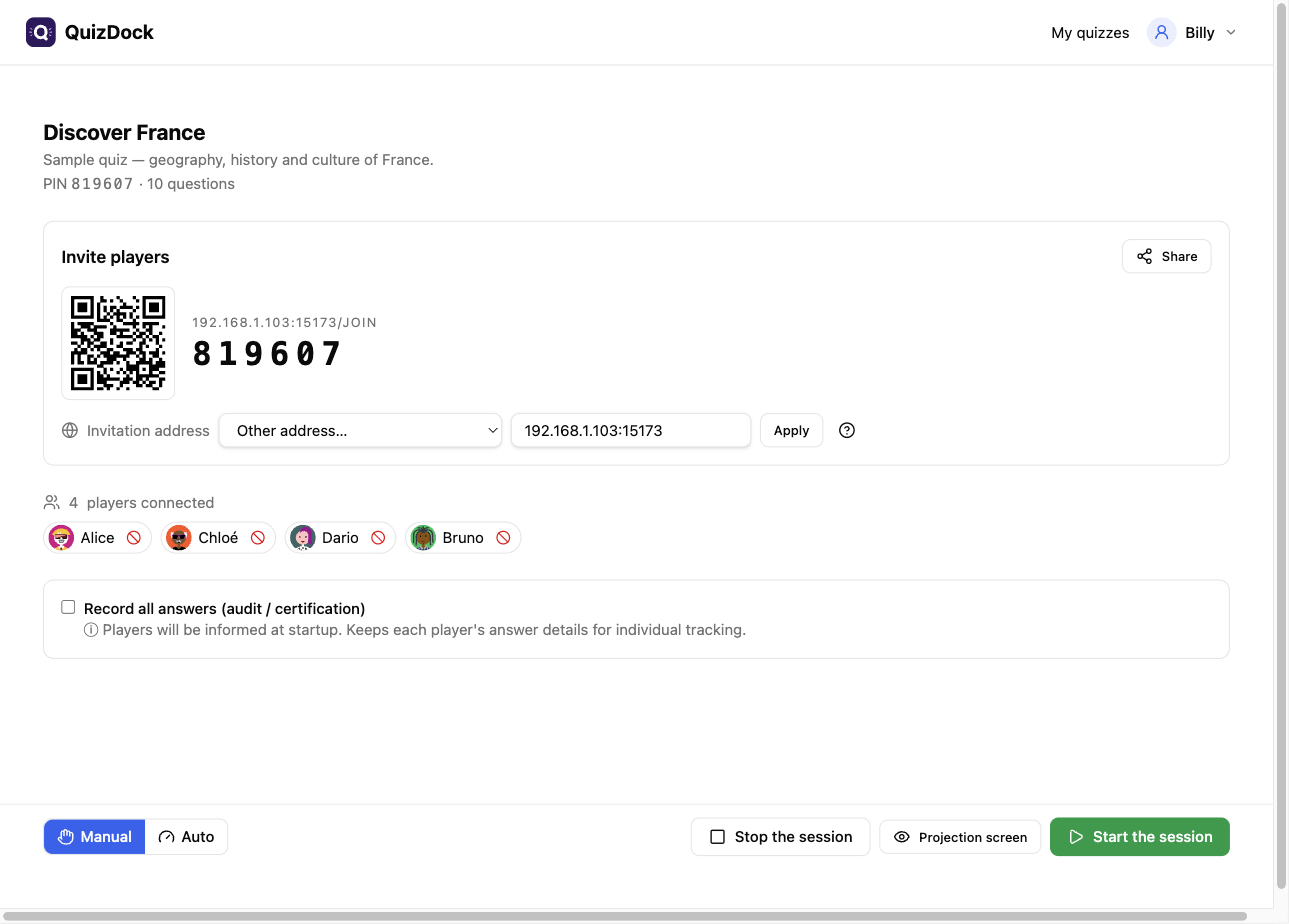
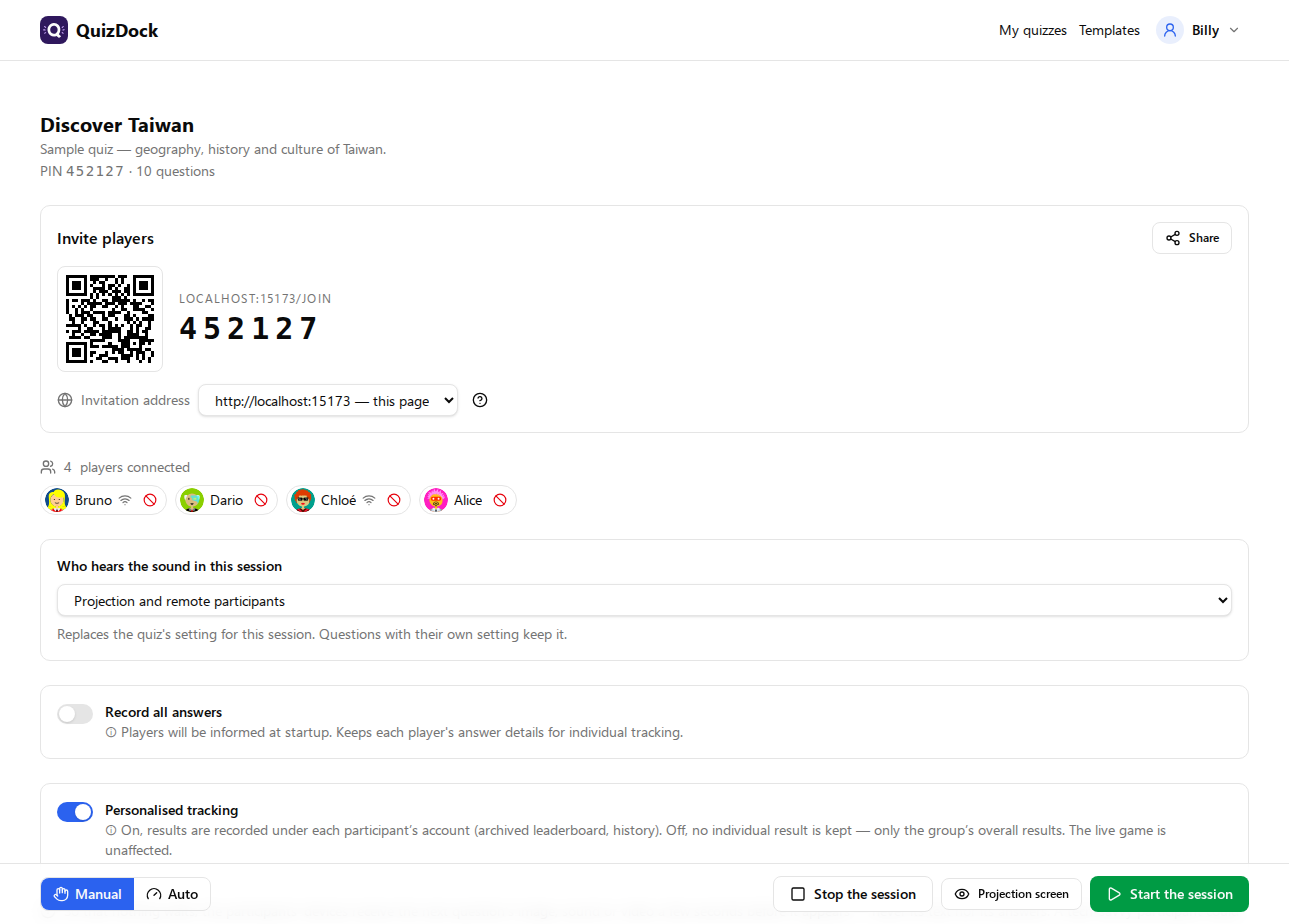
Screenshots for 0.7: the folded editor, the lobby with sound, joining in the room or remote
Claude-Session: https://claude.ai/code/session_01AAH5GGY8m6YkXuQiyKfEAi

diff --git a/index.html b/index.html
@@ -202,10 +202,10 @@
           <button class="carousel-btn prev" type="button" aria-label="Previous screenshot">‹</button>
           <div class="carousel-track" id="shots">
             <figure class="slide"><img src="screenshots/my-quizzes.png" alt="My quizzes" loading="lazy" /><figcaption>My quizzes — your bank, import / export, one click to present</figcaption></figure>
-            <figure class="slide"><img src="screenshots/editor.png" alt="Quiz builder" loading="lazy" /><figcaption>Quiz builder — 7 question types, slides, backgrounds, scoring rules</figcaption></figure>
-            <figure class="slide"><img src="screenshots/console-lobby.png" alt="Host console — lobby" loading="lazy" /><figcaption>Host console — PIN, QR code, invitation address, players</figcaption></figure>
+            <figure class="slide"><img src="screenshots/editor.png" alt="Quiz builder" loading="lazy" /><figcaption>Quiz builder — 7 question types, video &amp; sound, slides, backgrounds, scoring rules</figcaption></figure>
+            <figure class="slide"><img src="screenshots/console-lobby.png" alt="Host console — lobby" loading="lazy" /><figcaption>Host console — PIN, QR code, players in the room or remote, who hears the sound</figcaption></figure>
             <figure class="slide"><img src="screenshots/projection-lobby.png" alt="Projection — lobby" loading="lazy" /><figcaption>Projection — the big screen while players join</figcaption></figure>
-            <figure class="slide"><img src="screenshots/join.png" alt="Join by PIN, nickname and avatar" loading="lazy" /><figcaption>Join — PIN or QR code, nickname &amp; Multiavatar avatar, no account</figcaption></figure>
+            <figure class="slide"><img src="screenshots/join.png" alt="Join by PIN, nickname and avatar, in the room or remote" loading="lazy" /><figcaption>Join — PIN or QR code, nickname &amp; Multiavatar avatar, in the room or remote, no account</figcaption></figure>
             <figure class="slide"><img src="screenshots/projection-slide.png" alt="Content slide" loading="lazy" /><figcaption>Content slide — headings, text, images, backgrounds</figcaption></figure>
             <figure class="slide"><img src="screenshots/projection-question.png" alt="Projection — question" loading="lazy" /><figcaption>Projection — live question, Kahoot-style</figcaption></figure>
             <figure class="slide"><img src="screenshots/player-play.png" alt="Player — question and reveal" loading="lazy" /><figcaption>Player — answers listed, colour tiles to tap, then own result</figcaption></figure>
